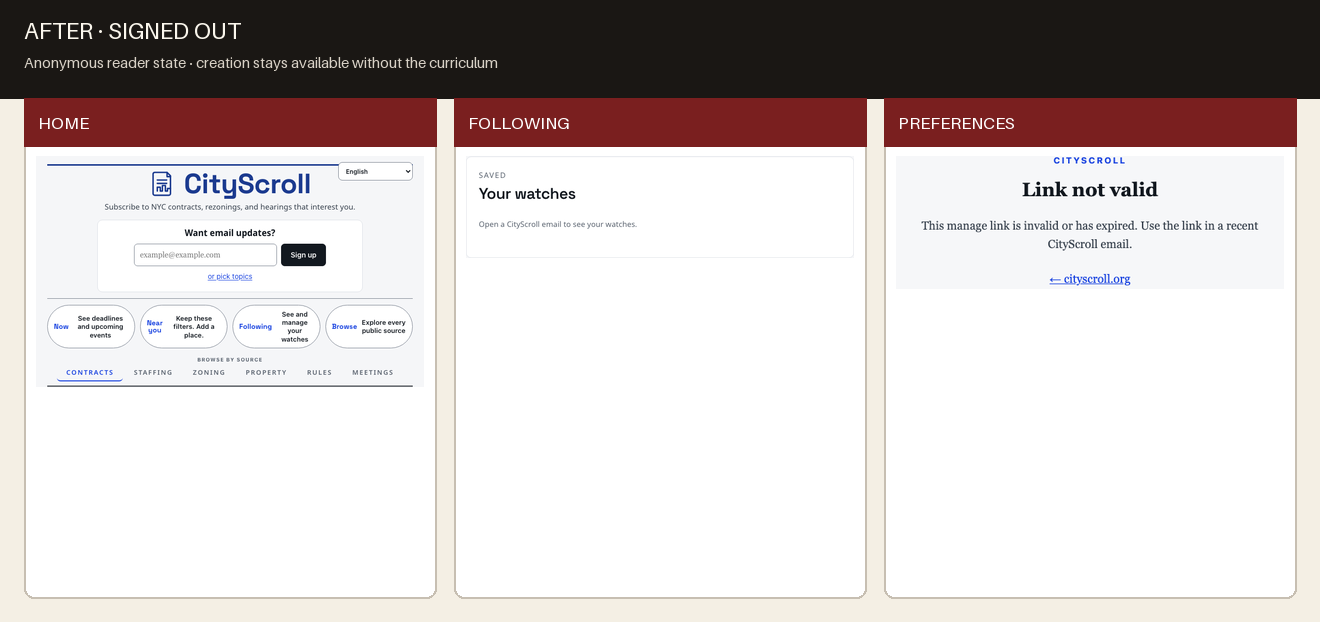
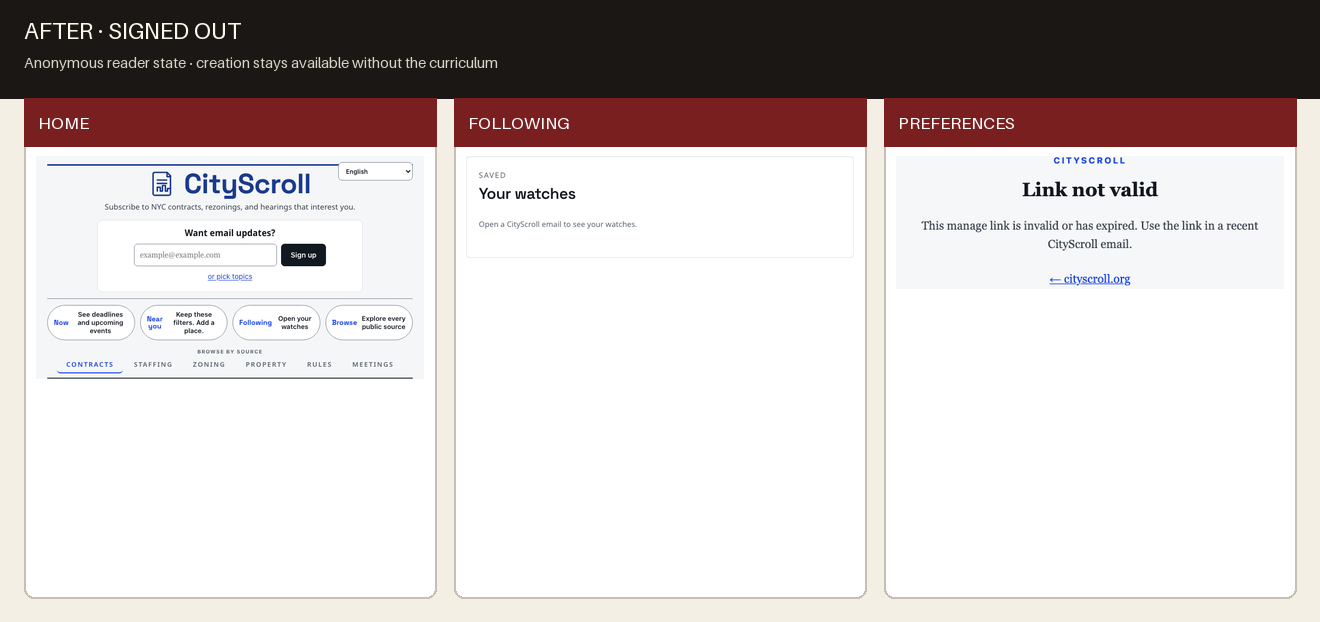
Simplify homepage session copy

Changed region(s): [[0.0311, 0.4887, 0.3106, 0.6415]]

diff --git a/site/index.html b/site/index.html
@@ -1550,14 +1550,14 @@
       </form>
       <p class="home-cta-alt"><a href="/following/" id="homeCtaTopics" data-i18n="home_cta_topics">or pick topics</a></p>
       <p class="home-cta-compact" id="homeCtaCompact"><a href="/following/"><span data-i18n="home_cta_prompt">Want email updates?</span> <span aria-hidden="true">→</span></a></p>
-      <p class="home-cta-session"><a id="homeCtaManage" href="/following/#your-following" data-i18n="session_manage_watches" hidden>Manage watches</a></p>
+      <p class="home-cta-session"><a id="homeCtaManage" href="/following/#your-following" data-i18n="session_manage_watches" hidden>Your watches</a></p>
       <div id="homeCtaMsg" class="home-cta-msg" role="status"></div>
     </div>
     <div class="cr-rule cr-rule--mid"></div>
     <nav class="now-entry-row" aria-label="Primary">
       <a class="now-entry" href="/now/"><strong data-i18n="now_title">Now</strong><span data-i18n="now_entry_link">See deadlines and upcoming events</span></a>
       <a class="now-entry" href="/near-you/"><strong data-i18n="near_you_entry_title">Near you</strong><span data-i18n="near_you_entry_desc">Keep these filters. Add a place.</span></a>
-      <a class="now-entry" href="/following/"><strong>Following</strong><span>See and manage your watches</span></a>
+      <a class="now-entry" href="/following/"><strong>Following</strong><span>Open your watches</span></a>
       <a class="now-entry" href="/browse/"><strong>Browse</strong><span>Explore every public source</span></a>
     </nav>
     <div class="browse-child-nav" id="browse-child-nav">
@@ -1573,8 +1573,8 @@
     </div>
     <div id="langNotice" class="lang-notice" hidden></div>
     <div id="sessionBanner" class="session-banner" role="status" aria-live="polite" data-open="false" hidden>
-      <span id="sessionBannerText" dir="auto">Signed in as your email — pins follow you on this device.</span>
-      <a id="sessionManage" class="session-manage" href="https://cityscroll.org/prefs" data-i18n="session_manage_watches">Manage watches</a>
+      <span id="sessionBannerText" dir="auto">Signed in. Your pins stay here.</span>
+      <a id="sessionManage" class="session-manage" href="https://cityscroll.org/prefs" data-i18n="session_manage_watches">Your watches</a>
       <button type="button" id="sessionNotYou" class="session-dismiss" data-i18n="session_not_you">Not you?</button>
       <button type="button" id="sessionDismiss" data-i18n="session_dismiss">Dismiss</button>
     </div>
